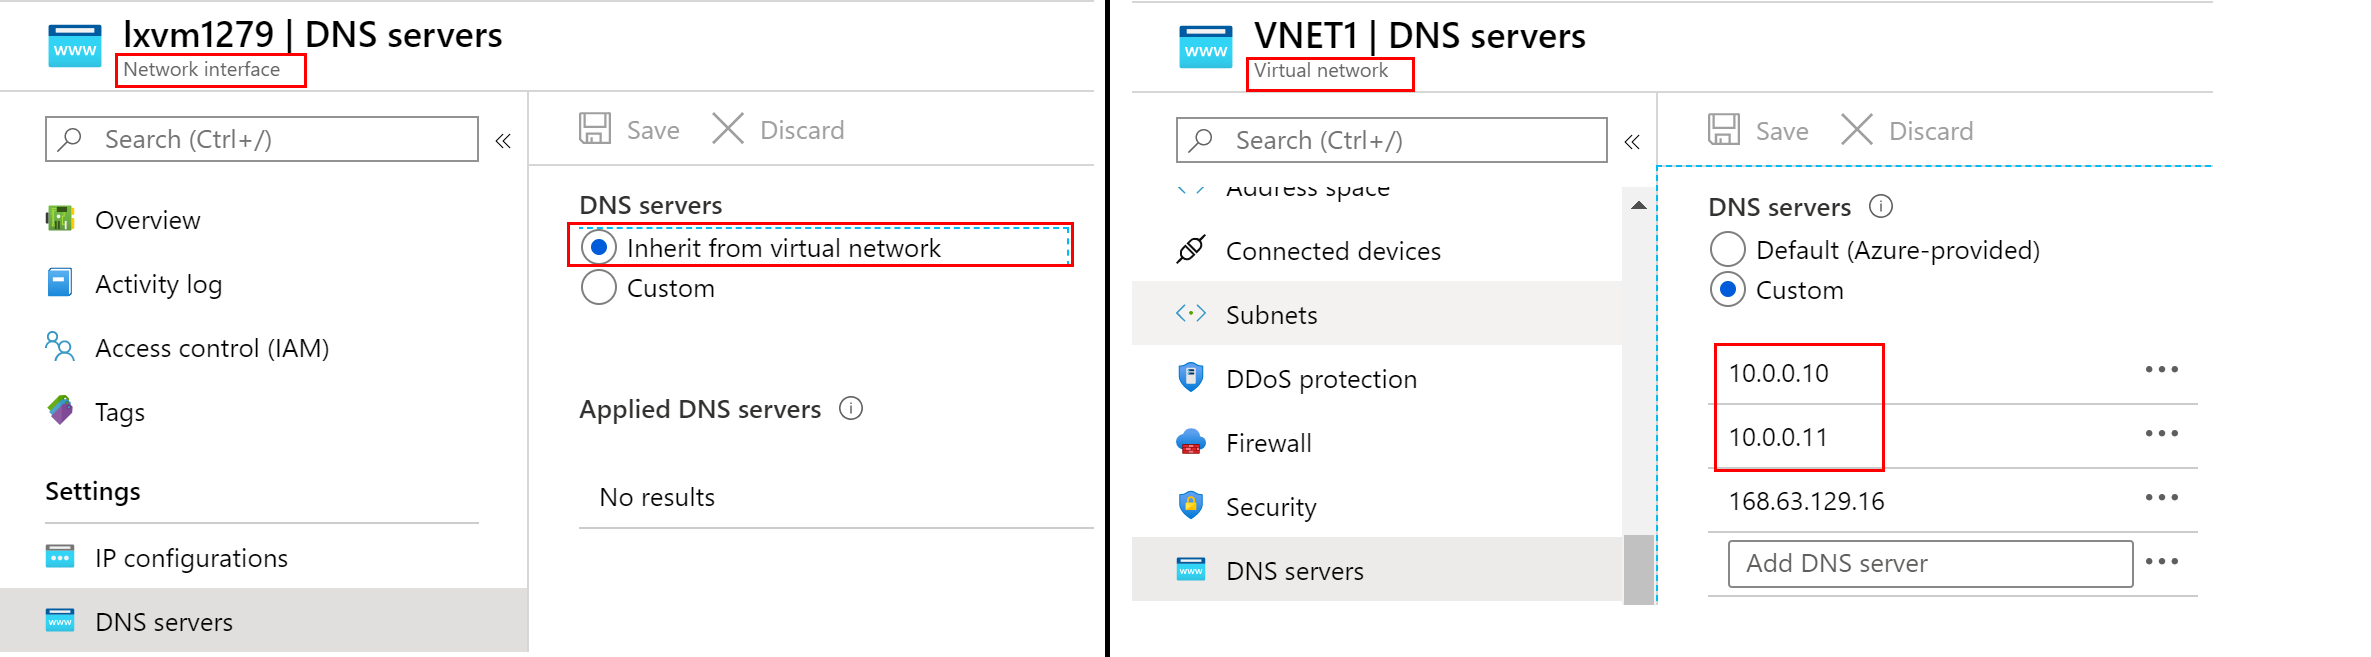
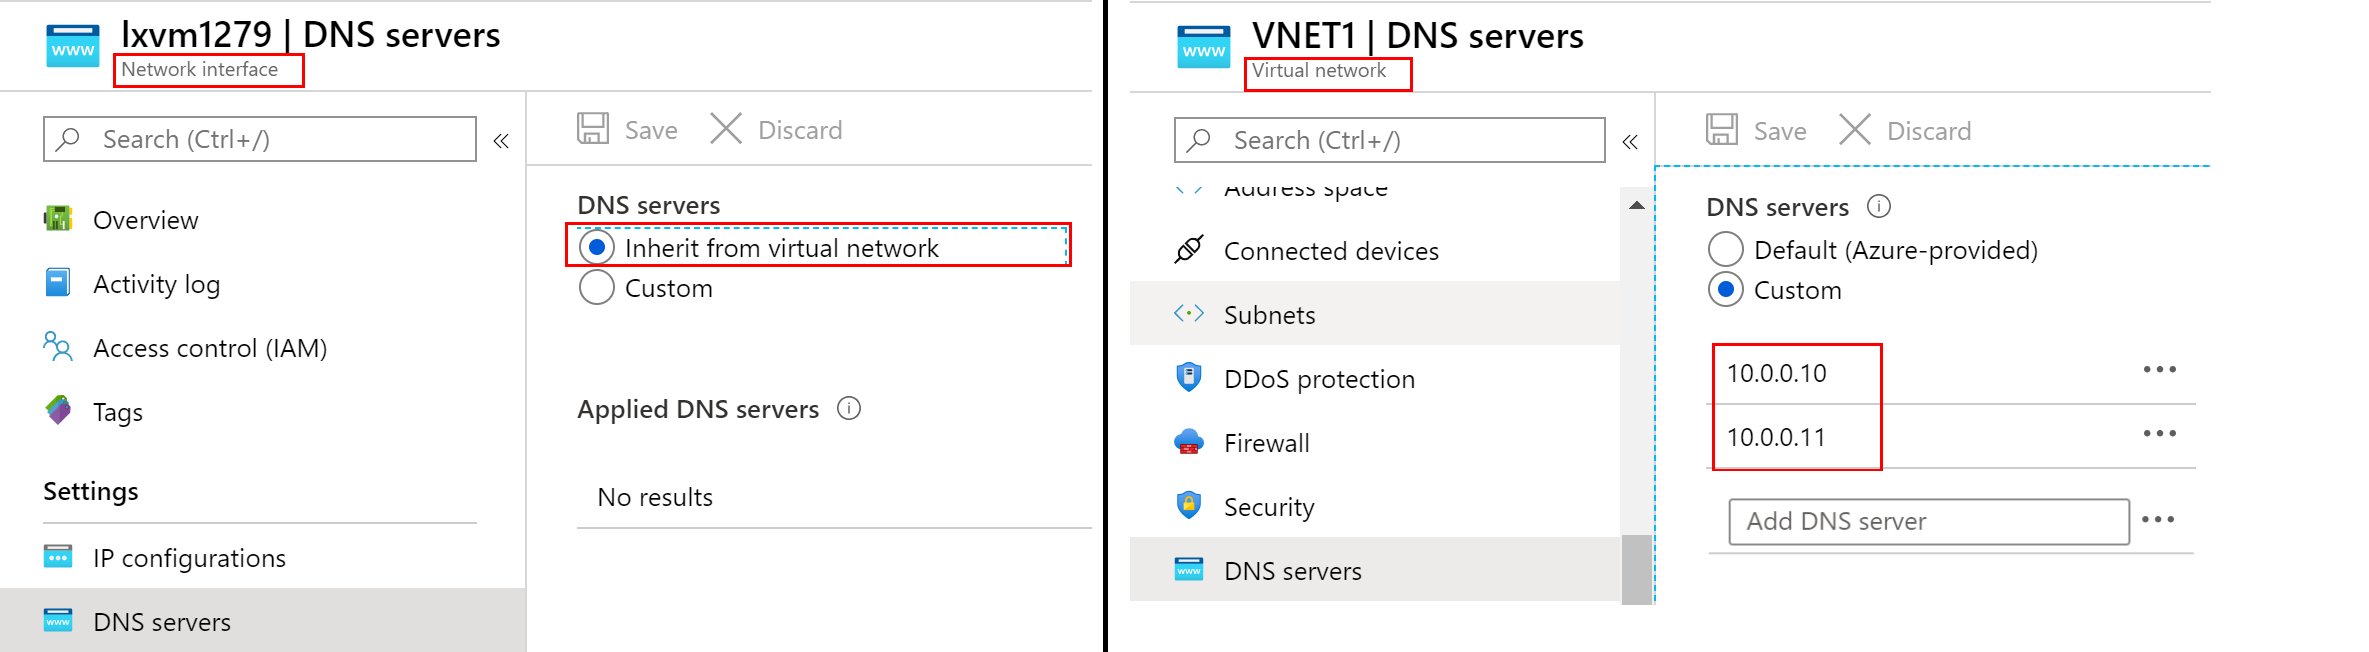
Update

diff --git a/Issue-Customer-Unable-to-Access-PaaS-AfterPrivateLink/README.md b/Issue-Customer-Unable-to-Access-PaaS-AfterPrivateLink/README.md
@@ -1,0 +1,76 @@
+## Known Issue
+Azure Customers are unable to access each other PaaS Resources when both sides are exposed to PrivateLink/Endpoint.
+
+## Consider a scenario:
+Contoso Corporation is using Private Endpoint to access their Storage Accounts, example blog storage account name: **contosostg1**.
+ - ContosoVM1 -> Resolves Storage Account using privatelink.blob.core.windows.net to get private IP associated to Private Endpoint in order to access contosostg1.blob.core.windows.net
+
+In the other side Fabrikam is also using Private Endpoints to access their own Storage Accounts, for example fabriakamstg1, using same exact scenario as Contoso.
+ - FabrikamVM1 -> Resolves Storage Account using privatelink.blob.core.windows.net to get private IP associated to Private Endpoint in order to access fabrikamstg1.blob.core.windows.net
+
+For this scenario both customers host their respective privatelink.blob.core.windows.net using Azure Private DNS Zones.
+
+Contoso wants allow Fabrikam to access their container named orders under storage account contosostg1.blob.core.windows.net
+
+Contoso expects Fabrikam to access their storage account using Public IP. However, when Fabrikam IT team tries to resolve contosostg1.blob.core.windows.net from FabrikamVM1 they detect that resolution does not work at all as shown:
+
+![](./media/image1.png)
+
+1. Unable to ping contosostg1.blob.core.windows.net (name resolution failed to obtain IP)
+2. Nslookup doesn't show error but no IP is resolved.
+3. Resolved-DNSName cmdlet shows resolution stops when CNAME contosostg1.privatelink.blob.core.windows.net is triggered
+
+## Root Cause:
+FabrikamVM1 is unable to resolve that contosostg1.blob.core.windows.net because is also using Private Link and has also CNAME for its name fabrikamstg1.privatelink.blob.core.windows.net. Because Fabrikam also hosts that Azure Private DNS zone privatelink.blob.core.windows.net it will be unable to get is Public IP.
+
+Note that If you execute the same tests outside of Fabrikam environment (not integrated with Private DNS Zone for privatelink.blob.core.windows.net) resolution will bring Public IP fine.
+    
+You can validate that by either running Nslookup, Resolve-DnsName (PowerShell) or Dig against contosostg1.blob.core.windows.net as shown:
+
+![](./media/image2.png)
+
+1. Public IP is returned fine.
+2. You can confirm with this extra CNAME contosostg1.privatelink.blob.core.windows.net that storage account is exposed to Private Link/Endpoint (For more information on how DNS Name resolution works with PrivateLink here: [How DNS resolution works before and after Private Endpoints](https://github.com/dmauser/PrivateLink/tree/master/DNS-Integration-Scenarios#2-how-dns-resolution-works-before-and-after-private-endpoints)
+
+## Recommended Solution: 
+
+Expose  contosostg1 storage account via Private Link/Endpoint to Fabrikam.
+Fabrikam has to create a Private Endpoint and request Private Link to contosostg1.blob.core.windows.net. After that DNS record for contosostg1 inside AzurePrivate DNS zone privatelink.blob.core.windows.net in order to access.
+
+In order to create PrivateEndpoint on Fabrikam side Contoso has to provide them Storage Account contosostg1 ResourceID. In my example:
+/subscriptions/36ead89c-e817-4abc-ae66-5d29d23995bb/resourceGroups/VNET1/providers/Microsoft.Storage/storageAccounts/contosostg1
+
+### 1. Using that information Fabrikam start the process to create a Private Endpoint on their side using Azure Portal ###
+(Screenshots in sequence - Basics, Resource, Configuration, Review+Create):
+
+- **Step 1** - Add Private Private Endpoint
+
+![](./media/image3.png)
+
+- **Step 2** - Select Subscription, Resource Group, Private Endpoint Name and Region.
+
+![](./media/image4.png)
+
+- **Step 3** - On resource tab you have to add Storage Account Resource ID provided by Constoso. Example: /subscriptions/(Add **SubID**)/resourceGroups/RGTEST/providers/Microsoft.Storage/storageAccounts/contosostg1
+
+![](./media/image5.png)
+
+- **Step 4** - Add target Virtual Network where Private Endpoint will reside. **Note** At this point Private DNS is not configured. You will to add record manually after you get Private Link request approved by Contoso.
+
+![](./media/image6.png)
+
+- **Step 5** - Review all details and process by Create.
+
+![](./media/image7.png)
+
+### 2. After Private Endpoint get Created you will see:
+
+ 1. Private Link Resource showing Storage Account name contosostg1.
+ 2. Connection Status as Pending because Contoso still need to approve Private Endpoint Request from Fabrikam
+ 3. DNS full name will be shown only after Contoso approval
+
+![](./media/ContosoPep-Pending.png)
+
+### 3. Contoso now has to approve that request that came from Fabrikam. Steps below done over Azure Portal on Contoso side.
+
+![](./media/image8.png)

diff --git a/DNS-Integration-Scenarios/README.md b/DNS-Integration-Scenarios/README.md
@@ -178,11 +178,6 @@ Another custom DNS scenario to consider is when a Forwarder or Root hints have a
   
   ![](./media/image12.png)
 
-**Note:** For additional redundancy, you can configure Azure Provided DNS (168.63.129.16) as a 3rd DNS server if both Custom DNS servers go down, that configuration is shown below:
-
-![](./media/image14.png)
-
-
 ## 4. On-Premises DNS integration
 
 The first challenge when trying to resolve Private Endpoints from On-premises networks, when leveraging Azure Private DNS Zones, is how to retrieve the Private Endpoint IP via 168.63.129.16 (this IP is not reachable from On-premises networks). Today this integration requires use of a Custom DNS Servers deployed in Azure VNET and have On-premises DNS Servers send requests to them. It's important that On-premises DNS Servers are configured correctly to forward the appropriate requests to the Custom DNS server in Azure and there are multiple ways to do that and we will explore them in more details later in this section.
